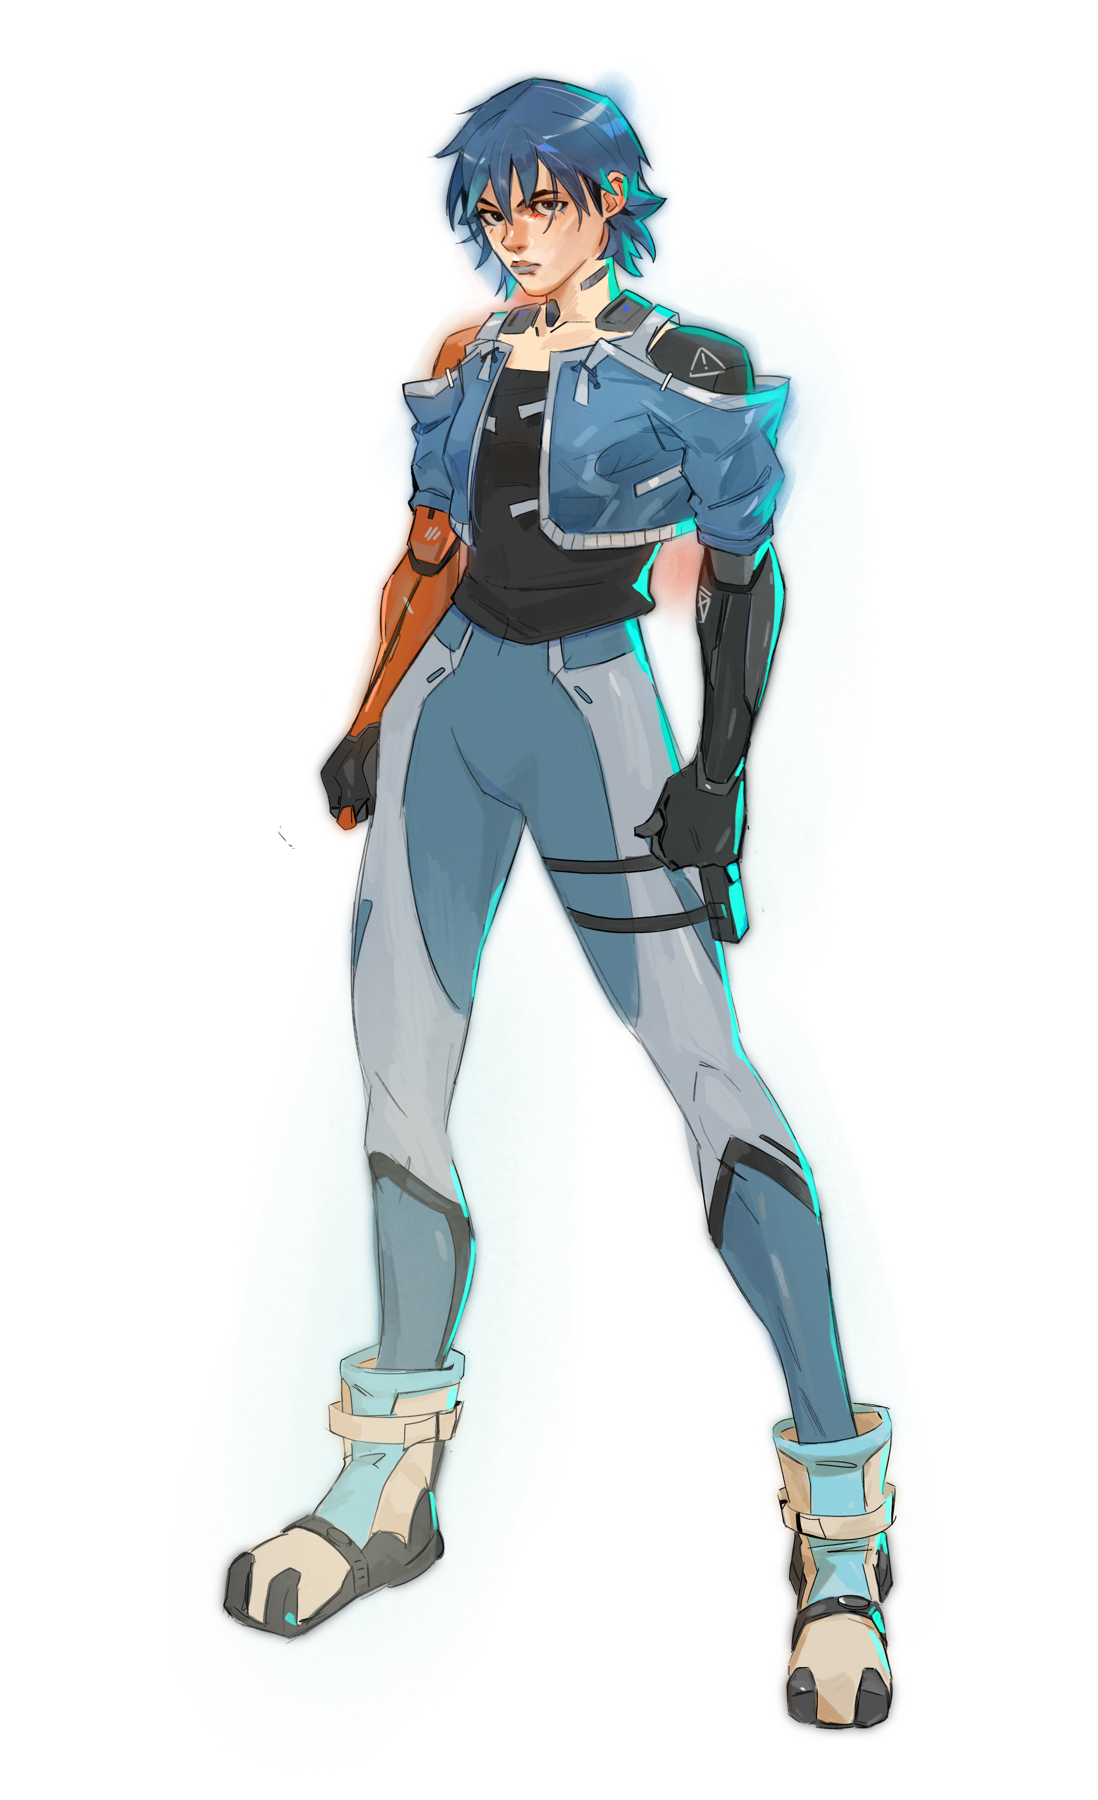
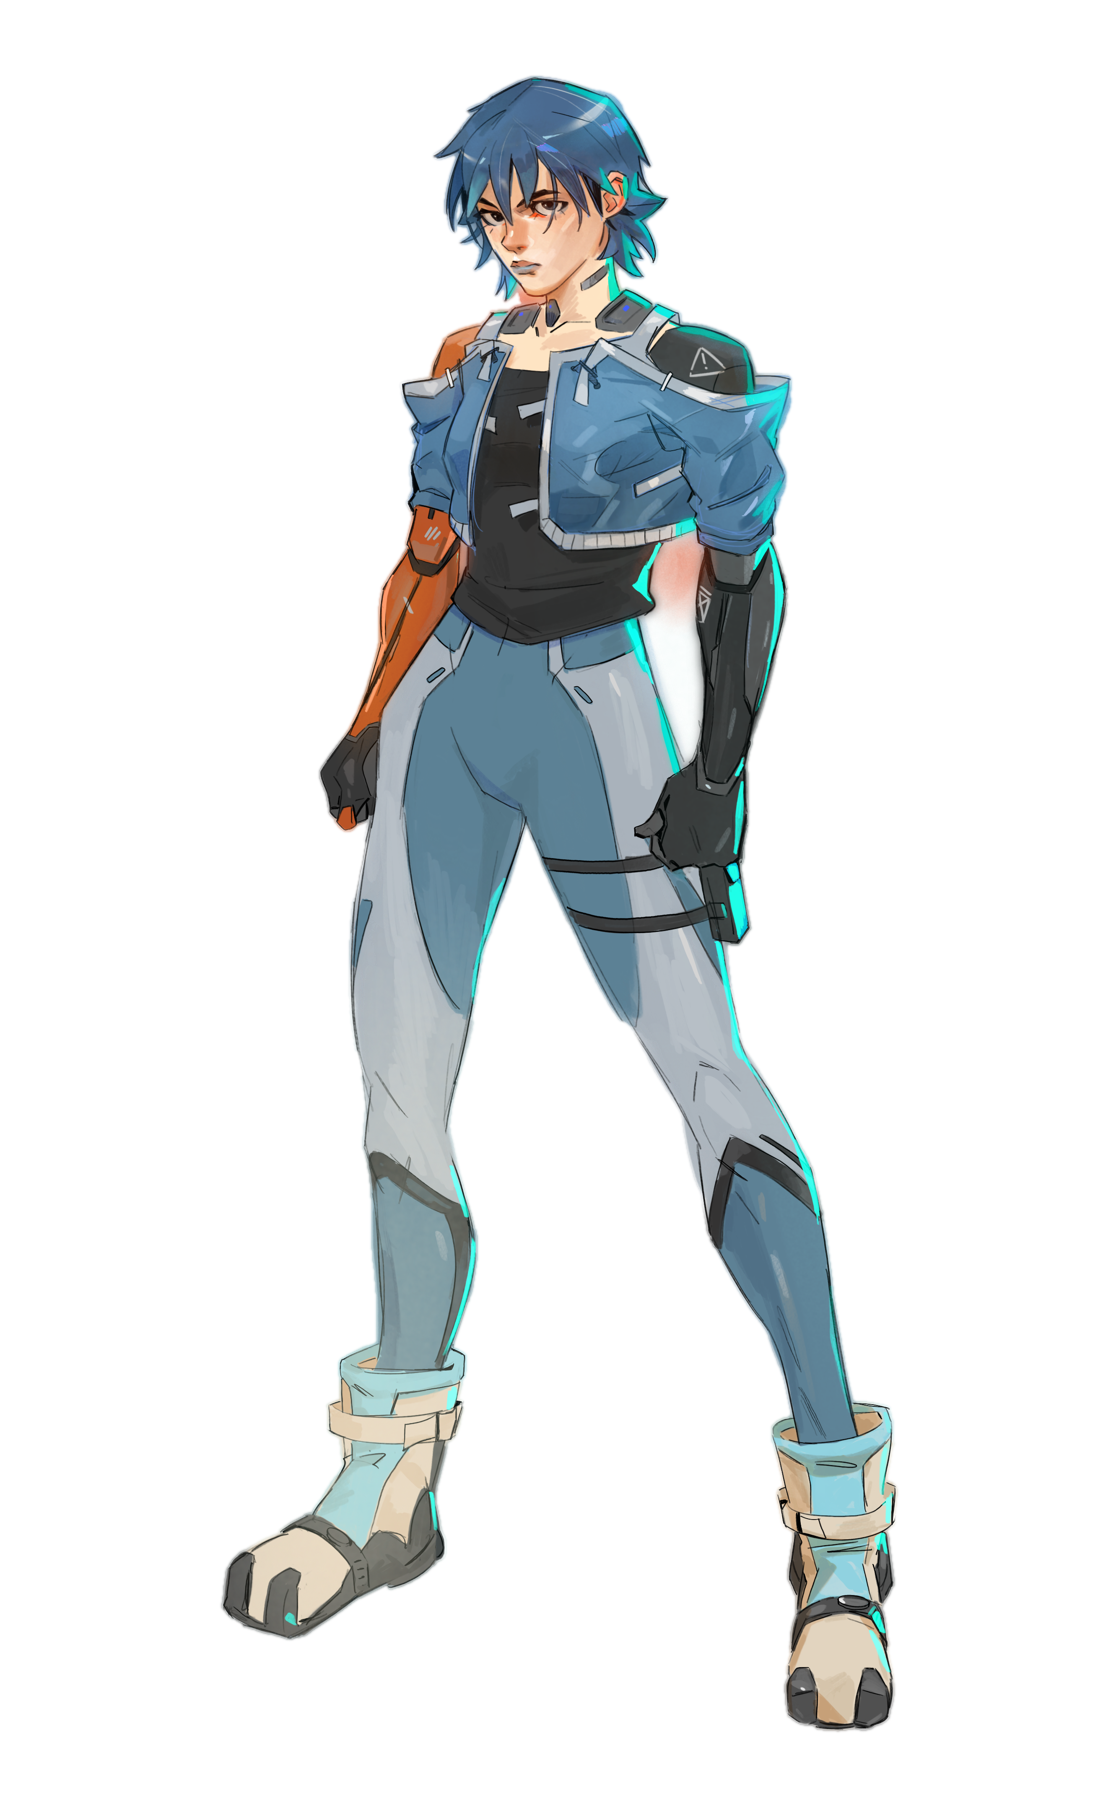
make not shit

diff --git a/MAIN_MECHANICS.md b/MAIN_MECHANICS.md
@@ -184,6 +184,8 @@ Objectives and route (2026-10-13). Primary objective: GET TO THE ELEVATOR (`[Gam
 8. **Enemies.** Grunts use scene overrides (`Grunt Stats Service Floor`, 68 health = −15%; `pursuitRadius` 30 so they chase through doors). Groups under `[Enemies]`: `Main Hall` (Rooms 1, 2, 4–9, z = 0, yaw 0), `North Hall` (Room 11, x = 188, yaw 270), `Wing` (Corridor, 1A–4A, x = 50, yaw 270) and the Brute. None in the safe rooms (0, 3, 10).
    - **After the Room 8 collapse (harder second half):** `Hyena` prefab instances (pursuitRadius 30) and more grunts. `Basement` (Hyena + 2 Grunts at the right end of the service hall, x 194–202, facing left) and `Room 9` (Hyena + Grunt on the upper floor, x 177–183) start **inactive**; the last action of `Room8_Collapse` turns them on, so they can't start a fight that delays the collapse (it waits until out of combat). North Hall adds 2 hyenas (z 5, 60) and a grunt (z 67); the Wing adds hyenas in 1A–4A and grunts at z 116 and 194.
 9. **Level Manager.** `LevelStatsTracker` (timer/kills), `LevelGoal` (Manual; counts scene enemies for the grade), `EncounterController` (one wave: the existing Brute), started by `[Gameplay]/EncounterStart_Brute` at the 5A doorway. The elevator completes the level through `LevelGoal`, so the Level Results Screen shows and its Continue loads EndCard.
+   - **Mod drops (2026-10-31):** every Service Floor enemy has Drop Chance 0 (scene override), except `Hyena_Basement` (`Drops/Service Floor Dont Blink`, 100%) and the 4A grunts `Grunt_4A_B` (100%) and `Grunt_4A_C` (50%) with `Drops/Service Floor Passives` (Fire, Life Steal, Pogo; no Electric). An enemy with no custom table and chance > 0 falls back to the DropManager's Global Drop Table.
+   - **Basement camera:** `BasementCam` Follow Offset y 6.65 (was 9.5, 30% lower).
 10. **Player and blades.** `SceneSettings` → Player Choice = New Player, so Service Floor always spawns `Player_Cass`. The `Sword CyberBox` pickup gives `Sword (Cass)`, shown as **Mantis Blades**: Cass's punch animations at base damage 18 (fists 10).
 11. **Basement service hall (Room 8 collapse).** The basement runs from x 146 to 211 (east wall art inner face x 210.9).
     - `Chimney_RimWall` is now a header (y −5.5 to 1.3) over a doorway. `ServiceHall_Ceiling` fills the space under the upper floor. Colliders: `Floor_Basement` (x 146–211), `Wall_Basement_East` (x 210.9–212.4) and `Ceiling_ServiceHall` (x 169–211) under `Colliders/Basement`. Probe-lit, plus two realtime no-shadow lamps (`ServiceHall_Light_A/B`); nothing was rebaked.

diff --git a/ENEMIES.md b/ENEMIES.md
@@ -87,6 +87,10 @@ With the Editor open (`unity status` shows `ready`), the safe order is:
 
 Prefab tuning (launch, stats, toggles) goes through `PrefabUtility.LoadPrefabContents` + `SerializedObject` + `SaveAsPrefabAsset`, so Unity writes the YAML and keeps references.
 
+## Hitboxes
+
+Melee hitboxes (`Hitbox` child, trigger box along local +X, flipped with the root's X scale) must start **behind the body centre**, so a player standing inside the enemy is hit when the box turns on. Grunt `Hitbox`: x −0.5 to 1.15 (local, before root scale). Hyena `Dashhitbox`: x −0.35 to 1.95. The other Hyena colour prefabs are separate and were not changed.
+
 ## Common mistakes
 
 | Symptom | Cause |
